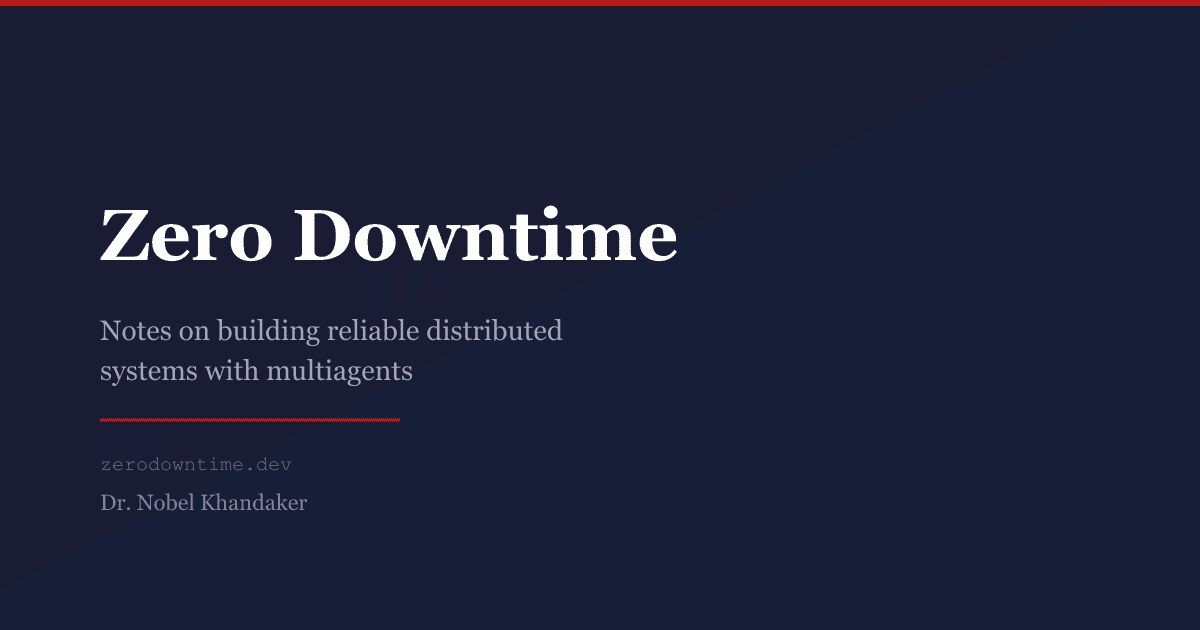
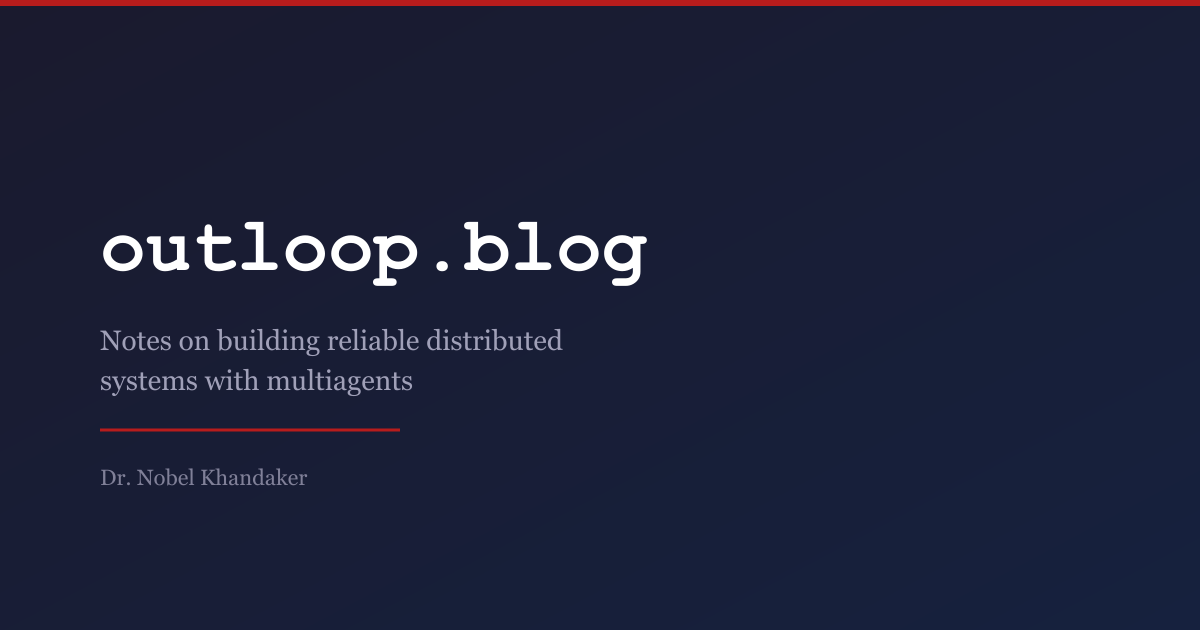
Migrate site to outloop.blog and add Bluesky/DEV/contact links
Flip the canonical domain from zerodowntime.dev to outloop.blog and
rebrand the site title accordingly. The CNAME was already updated; this
closes the gap so generated absolute URLs (sitemap, feed, canonical,
OG/JSON-LD) match the live host.

- _config.yml: url -> https://outloop.blog; title/social.name -> outloop.blog
- _build/og-card.svg + assets/img/og-default.png: regenerated OG card
- CLAUDE.md: update docs + HSTS note (.blog not preloaded; old domain not redirected)
- Add Bluesky, DEV Community, and hello@outloop.blog across owner data,
  JSON-LD sameAs, social-icons, and the about page
- url_migration_plan.md: reviewed migration plan (excluded from build)

diff --git a/_includes/social-icons.html b/_includes/social-icons.html
@@ -8,8 +8,17 @@
   {%- if site.owner.mastodon -%}
     <a href="{{ site.owner.mastodon }}" rel="me" aria-label="Mastodon">Mastodon</a>
   {%- endif -%}
+  {%- if site.owner.bluesky -%}
+    <a href="{{ site.owner.bluesky }}" rel="me" aria-label="Bluesky">Bluesky</a>
+  {%- endif -%}
+  {%- if site.owner.devto -%}
+    <a href="{{ site.owner.devto }}" rel="me" aria-label="DEV Community">DEV</a>
+  {%- endif -%}
   {%- if site.owner.linkedin -%}
     <a href="https://linkedin.com/in/{{ site.owner.linkedin }}" rel="me" aria-label="LinkedIn">LinkedIn</a>
+  {%- endif -%}
+  {%- if site.owner.contact_email -%}
+    <a href="mailto:{{ site.owner.contact_email }}" aria-label="Email">Email</a>
   {%- endif -%}
   <a href="{{ '/feed.xml' | relative_url }}" aria-label="RSS feed">RSS</a>
 </div>

diff --git a/url_migration_plan.md b/url_migration_plan.md
@@ -1,0 +1,143 @@
+# URL Migration Plan: `zerodowntime.dev` → `outloop.blog`
+
+## Goal
+
+Move the live site from the custom domain `https://zerodowntime.dev` to
+`https://outloop.blog` with correct SEO/canonical metadata and working HTTPS,
+and with no broken **internal** links. Preserving **external/inbound** links to
+the old domain is a separate, explicit requirement handled in B5 (keep the old
+domain and redirect it) — it is not automatic.
+
+## Current state (from repo audit, 2026-06-17)
+
+| Location | Reference | Action |
+|----------|-----------|--------|
+| `CNAME` | `outloop.blog` | **Already done** (commit `3b43b55`) |
+| `_config.yml:9` | `url: https://zerodowntime.dev` | **Must change** — authoritative source |
+| `_config.yml:81` | `# e.g. "zerodowntime.dev"` (plausible comment) | Cosmetic — update example |
+| `_build/og-card.svg:14` | text `zerodowntime.dev` | Regenerate SVG + `og-default.png` |
+| `assets/img/og-default.png` | rendered old domain | Regenerate from SVG |
+| `CLAUDE.md` | 6 documentation references | Update docs |
+| `.claude/settings.local.json` | curl/WebFetch allowlist entries | Optional local cleanup |
+| `_posts/`, `_includes/`, `_layouts/`, `robots.txt` | **no hardcoded host** | Nothing — `absolute_url` auto-resolves |
+
+**Key finding:** the repo is in a split-brain state at the *artifact* level.
+`CNAME` already says `outloop.blog` (so the **published artifact** is configured
+for the new host) while every generated absolute URL (`url:` in `_config.yml`)
+still says `zerodowntime.dev`. Closing that gap is the core of this migration.
+Caveat: a repo audit cannot prove that live DNS resolves to GitHub Pages, that
+the Pages custom-domain setting is updated, or that the cert is issued — those
+are external states verified in Part B.
+
+## Part A — In-repo changes (this PR)
+
+1. **`_config.yml:9`** — `url: https://outloop.blog`. This is the one change
+   that re-resolves the sitemap, `feed.xml`, canonical `<link>`, Open Graph
+   `og:url`, and JSON-LD `BlogPosting`/`WebSite` URLs at build time.
+2. **`_config.yml:81`** — update the Plausible example comment to
+   `# e.g. "outloop.blog"`. (`plausible.domain` itself is blank/inactive, so no
+   functional change.)
+3. **`_build/og-card.svg`** — change the `zerodowntime.dev` text node to
+   `outloop.blog`, then regenerate `assets/img/og-default.png` (1200×630) from
+   it. Without this, social-share cards keep showing the old domain.
+   - *Branding note:* the SVG and `_config.yml` `title:` still read
+     "Zero Downtime". Renaming the brand is **out of scope** for a URL move —
+     flag to the user as a separate decision.
+4. **`CLAUDE.md`** — update the 6 prose references so the docs match reality
+   (purpose paragraph, Phase 2, Phase 8 example, Phase 11 notes).
+5. **`.claude/settings.local.json`** — update the `zerodowntime.dev` curl /
+   WebFetch allowlist entries to `outloop.blog` (local convenience only; not
+   shipped).
+
+## Part B — Infrastructure (outside the repo — user/operator actions)
+
+These cannot be done from the repo and must be coordinated by the domain owner:
+
+1. **Verify the new domain in GitHub first (anti-takeover):** account/org →
+   Settings → Pages → "Verify a domain" → add the `_github-pages-challenge-…`
+   TXT record GitHub provides for `outloop.blog`. Do this **before** attaching
+   the domain to the repo so a dangling domain can't be claimed by another
+   account.
+2. **DNS for `outloop.blog` (apex):** point the apex at GitHub Pages using
+   **either** an `ALIAS`/`ANAME` record (if your DNS provider supports it,
+   preferred — it survives IP changes) **or** the four GitHub Pages `A` records
+   `185.199.108.153`, `185.199.109.153`, `185.199.110.153`, `185.199.111.153`
+   (with the matching `AAAA` records recommended). A bare `CNAME` at the apex is
+   not valid DNS, which is why `ALIAS`/`ANAME` or `A`/`AAAA` is needed there.
+   **Also configure `www.outloop.blog` as a `CNAME` → `nobelk.github.io`** —
+   GitHub recommends setting both so it can canonicalize/redirect between the
+   apex and `www` variants. Treat `www` as required, not optional, for a
+   zero-link-breakage migration.
+3. **GitHub Pages setting:** repo → Settings → Pages → set custom domain to
+   `outloop.blog`, wait for the DNS check to pass, then wait for the Let's
+   Encrypt cert to provision before ticking **Enforce HTTPS**.
+4. **HSTS:** `.dev` is on the HSTS preload list (forced HTTPS); `.blog` is not
+   preloaded by default, so the cutover is lower-risk than the original
+   `.dev` setup — but still do not enable "Enforce HTTPS" until the cert is
+   issued, or the site will be briefly unreachable.
+5. **Old domain (`zerodowntime.dev`) — keep + redirect (required for inbound
+   links):** to avoid breaking existing inbound links/bookmarks and to transfer
+   SEO equity, keep `zerodowntime.dev` registered and serve a **301 redirect**
+   to the matching path on `outloop.blog`. **This is NOT something this repo or
+   its GitHub Pages site can do** — a Pages site serves exactly one custom
+   domain (the one in `CNAME`) and only auto-redirects between that domain's own
+   apex/`www` pair. Cross-domain redirect needs separate infrastructure, e.g.:
+   - registrar/DNS-level forwarding with path preservation, or
+   - a Cloudflare (or similar) redirect rule on `zerodowntime.dev`, or
+   - a second GitHub Pages repo whose `CNAME` is `zerodowntime.dev`, doing
+     path-preserving redirects (Pages can't host-redirect, so this means
+     `<meta http-equiv="refresh">` / JS shims — weakest option, last resort).
+   Letting the old domain lapse is possible but **breaks all inbound links** and
+   forfeits SEO equity; only choose it if that's acceptable. Recommended: keep +
+   301 for at least several months (ideally a year).
+6. **Search Console / Bing:** add & verify `outloop.blog` as a new property,
+   resubmit `https://outloop.blog/sitemap.xml`. **Only after** the B5 301s are
+   live and both old and new properties are verified, use Google's Change of
+   Address tool (`zerodowntime.dev` → `outloop.blog`). Then activate
+   `webmaster_verifications:` in `_config.yml` if a verification token is
+   issued.
+7. **Plausible:** no action — `plausible.domain` is blank/inactive. If
+   analytics are later activated, use `outloop.blog`.
+
+## Part C — Things that DON'T need changing (verified)
+
+- **giscus comments:** `mapping: pathname` ties threads to URL *paths*, not the
+  host, so comment threads survive the domain change. (Also currently inactive
+  — blank `repo_id`.)
+- **`robots.txt`:** uses `{{ '/sitemap.xml' | absolute_url }}`, auto-resolves.
+- **`jekyll-feed` / `jekyll-sitemap` / `jekyll-seo-tag`:** all derive from
+  `site.url`; no per-file edits.
+- **Internal post links / images:** all root-relative; unaffected.
+
+## Verification
+
+1. `bundle exec rake build`
+2. Confirm the new host propagated into generated output:
+   - `grep -r "outloop.blog" _site/sitemap.xml _site/feed.xml` → present
+   - `grep -rc "zerodowntime.dev" _site/` → `0` (no stale absolute URLs)
+   - spot-check one post's `<link rel="canonical">` and `og:url`
+3. `bundle exec rake test` (html-proofer, internal links)
+4. `npm run lint`
+5. **Post-DNS smoke test** (after Part B): `curl -sI https://outloop.blog/`
+   returns `200` and a valid TLS cert; `https://outloop.blog/sitemap.xml` loads;
+   `curl -sI https://www.outloop.blog/` canonicalizes (301) to the apex.
+6. **Old-domain redirect test** (after B5): `curl -sI https://zerodowntime.dev/<some-post-path>`
+   returns a `301` whose `Location` is the **same path** on `https://outloop.blog/`.
+   Do not run Google's Change of Address tool until this passes.
+
+## Sequencing & risk
+
+- Part A (repo) and the DNS/Pages steps in Part B should land close together.
+  If `url:` flips to `outloop.blog` *before* DNS resolves, the live site (still
+  served at the old host until DNS cuts over) will emit absolute URLs pointing
+  at a not-yet-live domain. Safest order: domain verification + DNS + Pages cert
+  ready (B1–B4), then merge Part A, then set up the old-domain redirect (B5) and
+  Search Console (B6).
+- OG/social caches (LinkedIn, Slack, etc.) cache the old card image and URL;
+  they refresh on their own schedule or via each platform's debugger.
+
+## Out of scope (flag to user)
+
+- Rebranding the site title/tagline away from "Zero Downtime".
+- The exact mechanism/provider for the old-domain 301 redirect (operator
+  decision in B5) — the plan requires the redirect but not a specific vendor.

diff --git a/CLAUDE.md b/CLAUDE.md
@@ -4,11 +4,11 @@ This file provides guidance to Claude Code (claude.ai/code) when working with co
 
 ## Repository purpose
 
-Dr. Nobel Khandaker's personal blog. The repo follows the GitHub Pages user-site convention (`<username>.github.io`), but the site is served at the **custom domain `https://zerodowntime.dev`** via the `CNAME` file at the repo root. Don't change `CNAME` or `_config.yml`'s `url:` without coordinating with whatever DNS / GitHub-Pages settings are upstream.
+Dr. Nobel Khandaker's personal blog. The repo follows the GitHub Pages user-site convention (`<username>.github.io`), but the site is served at the **custom domain `https://outloop.blog`** via the `CNAME` file at the repo root. Don't change `CNAME` or `_config.yml`'s `url:` without coordinating with whatever DNS / GitHub-Pages settings are upstream. (The site was previously served at `zerodowntime.dev`; it was migrated to `outloop.blog` — the old domain is not redirected.)
 
 ## Current state
 
-Phases 1–13 of `blog_deployment_plan.md` are in place and the site is live at `https://zerodowntime.dev` with published posts in `_posts/`. Phase 11 (custom domain) was completed out-of-order in an earlier session. Phase 14 (post-launch polish) is still open by design.
+Phases 1–13 of `blog_deployment_plan.md` are in place and the site is live at `https://outloop.blog` with published posts in `_posts/`. Phase 11 (custom domain) was completed out-of-order in an earlier session. Phase 14 (post-launch polish) is still open by design.
 
 Three features ship *code-complete but activation-gated*: giscus comments, Plausible analytics, and KaTeX/Mermaid on-page toggles. They render nothing until the operator fills in the `_config.yml` block or adds the per-post front-matter flag. Details in the per-phase notes below.
 
@@ -18,7 +18,7 @@ Three features ship *code-complete but activation-gated*: giscus comments, Plaus
 - `Rakefile` → `rake build`, `rake serve`, `rake test`. `rake test` validates the existing `_site/` with `html-proofer` and does **not** rebuild, so a CI pipeline can do `build → pagefind → test` without clobbering the production artifact.
 
 **Phase 2 — config + skeleton (done)**
-- `_config.yml` populated per the plan. `url: https://zerodowntime.dev` matches the `CNAME` file (Phase 11 is live — see that phase's notes before touching either).
+- `_config.yml` populated per the plan. `url: https://outloop.blog` matches the `CNAME` file (Phase 11 is live — see that phase's notes before touching either).
 - `_drafts/` and `assets/img/` each carry a `.gitkeep` so git tracked them from day one; `assets/img/` now also holds real post hero/architecture images.
 - `404.html` uses `layout: null` and `sitemap: false`.
 
@@ -35,7 +35,7 @@ Three features ship *code-complete but activation-gated*: giscus comments, Plaus
 - `{% seo %}` in `_includes/head.html` emits canonical link, full Open Graph block, Twitter Card meta, and JSON-LD (`BlogPosting` for posts, `WebSite` for the homepage). The plan's idea of writing a custom `_includes/schema-article.html` was not needed — `jekyll-seo-tag` already covers `headline`, `datePublished`, `dateModified`, `author`, `mainEntityOfPage`, and (when `page.image` is set) `image`.
 - **Author config is split between two keys** — see the long comment at the top of `_config.yml`. `site.author` is a string (just the name) so jekyll-seo-tag can't fall through to its broken Twitter handle inference. `site.owner` is a hash with structured data (email, github, …) consumed only by our own templates (`footer.html`, `social-icons.html`).
 - `site.twitter` and `site.social` are **intentionally absent** — both have known footguns when configured without complete data. Comments in `_config.yml` describe what to add and when.
-- `robots.txt` is an explicit Liquid-templated file at the repo root (overrides the one `jekyll-sitemap` would auto-generate); the sitemap URL re-resolves automatically when `site.url` flips to `https://zerodowntime.dev` in Phase 11.
+- `robots.txt` is an explicit Liquid-templated file at the repo root (overrides the one `jekyll-sitemap` would auto-generate); the sitemap URL re-resolves automatically from `site.url` (`https://outloop.blog`).
 - `webmaster_verifications:` is stubbed (commented) in `_config.yml`. Activate it after registering the domain in Google Search Console / Bing Webmaster Tools.
 
 **Phase 5 — Search (done, Pagefind)**
@@ -60,7 +60,7 @@ Three features ship *code-complete but activation-gated*: giscus comments, Plaus
 **Phase 8 — Analytics (code-complete, activation-gated)**
 - Strategy: Plausible.
 - Gate lives in `_includes/analytics.html`: tag only renders when `jekyll.environment == "production"` **and** `site.plausible.domain.size > 0`. Same `.size > 0` reasoning as comments.
-- `_config.yml` carries a `plausible:` block with `domain: ""` and an optional `script_src` override (for domain-proxied deployments that dodge tracker-blockers). **To activate**: create a Plausible site, set `domain: "zerodowntime.dev"`. Local `rake serve` stays silent because `JEKYLL_ENV` defaults to `development`; the Actions workflow sets `JEKYLL_ENV=production`.
+- `_config.yml` carries a `plausible:` block with `domain: ""` and an optional `script_src` override (for domain-proxied deployments that dodge tracker-blockers). **To activate**: create a Plausible site, set `domain: "outloop.blog"`. Local `rake serve` stays silent because `JEKYLL_ENV` defaults to `development`; the Actions workflow sets `JEKYLL_ENV=production`.
 
 **Phase 9 — Highlighting + math + diagrams (done)**
 - Rouge theme generated via `bundle exec rougify style github > _sass/_syntax.scss` and pulled in by `main.scss` via `@use "syntax"`. `.stylelintrc.json` ignores `_sass/_syntax.scss` because it's tool-generated.
@@ -73,8 +73,8 @@ Three features ship *code-complete but activation-gated*: giscus comments, Plaus
 - Dropped: `w3c_validators` (not replaced — modern browsers already surface most violations, and the added Ruby dep isn't worth the marginal signal) and `scss_lint` (stylelint is its modern successor). This is an intentional divergence from section 0 of `blog_deployment_plan.md`.
 
 **Phase 11 — Custom domain (done)**
-- `CNAME` at the repo root contains `zerodowntime.dev`.
-- `_config.yml` uses `url: https://zerodowntime.dev`. Do not change without coordinating DNS / Pages custom-domain settings — `.dev` TLDs are on HSTS preload, so a mis-timed DNS cutover makes the site unreachable, not just downgraded.
+- `CNAME` at the repo root contains `outloop.blog`.
+- `_config.yml` uses `url: https://outloop.blog`. Do not change without coordinating DNS / Pages custom-domain settings. (Note: `.blog` is not on the HSTS preload list — unlike the former `.dev` domain — but still wait for the Let's Encrypt cert to provision before enabling "Enforce HTTPS" in Pages settings.)
 - `webmaster_verifications:` in `_config.yml` is still commented out — activate after registering with Google Search Console and Bing Webmaster Tools.
 
 **Phase 12 — CI/CD (done)**

diff --git a/pages/about.md b/pages/about.md
@@ -31,6 +31,9 @@ Most posts here fall into one of four areas:
 
 ## Contact
 
+- Email &mdash; <a href="mailto:hello@outloop.blog">hello@outloop.blog</a>
+- Bluesky &mdash; <a href="https://bsky.app/profile/outloop.bsky.social">@outloop.bsky.social</a>
+- DEV &mdash; <a href="https://dev.to/outloop">@outloop</a>
 - LinkedIn &mdash; <a href="https://linkedin.com/in/nobelkhandaker">nobelkhandaker</a>
 - GitHub &mdash; <a href="https://github.com/nobelk">@nobelk</a>
 - RSS &mdash; <a href="{{ '/feed.xml' | relative_url }}">/feed.xml</a>
